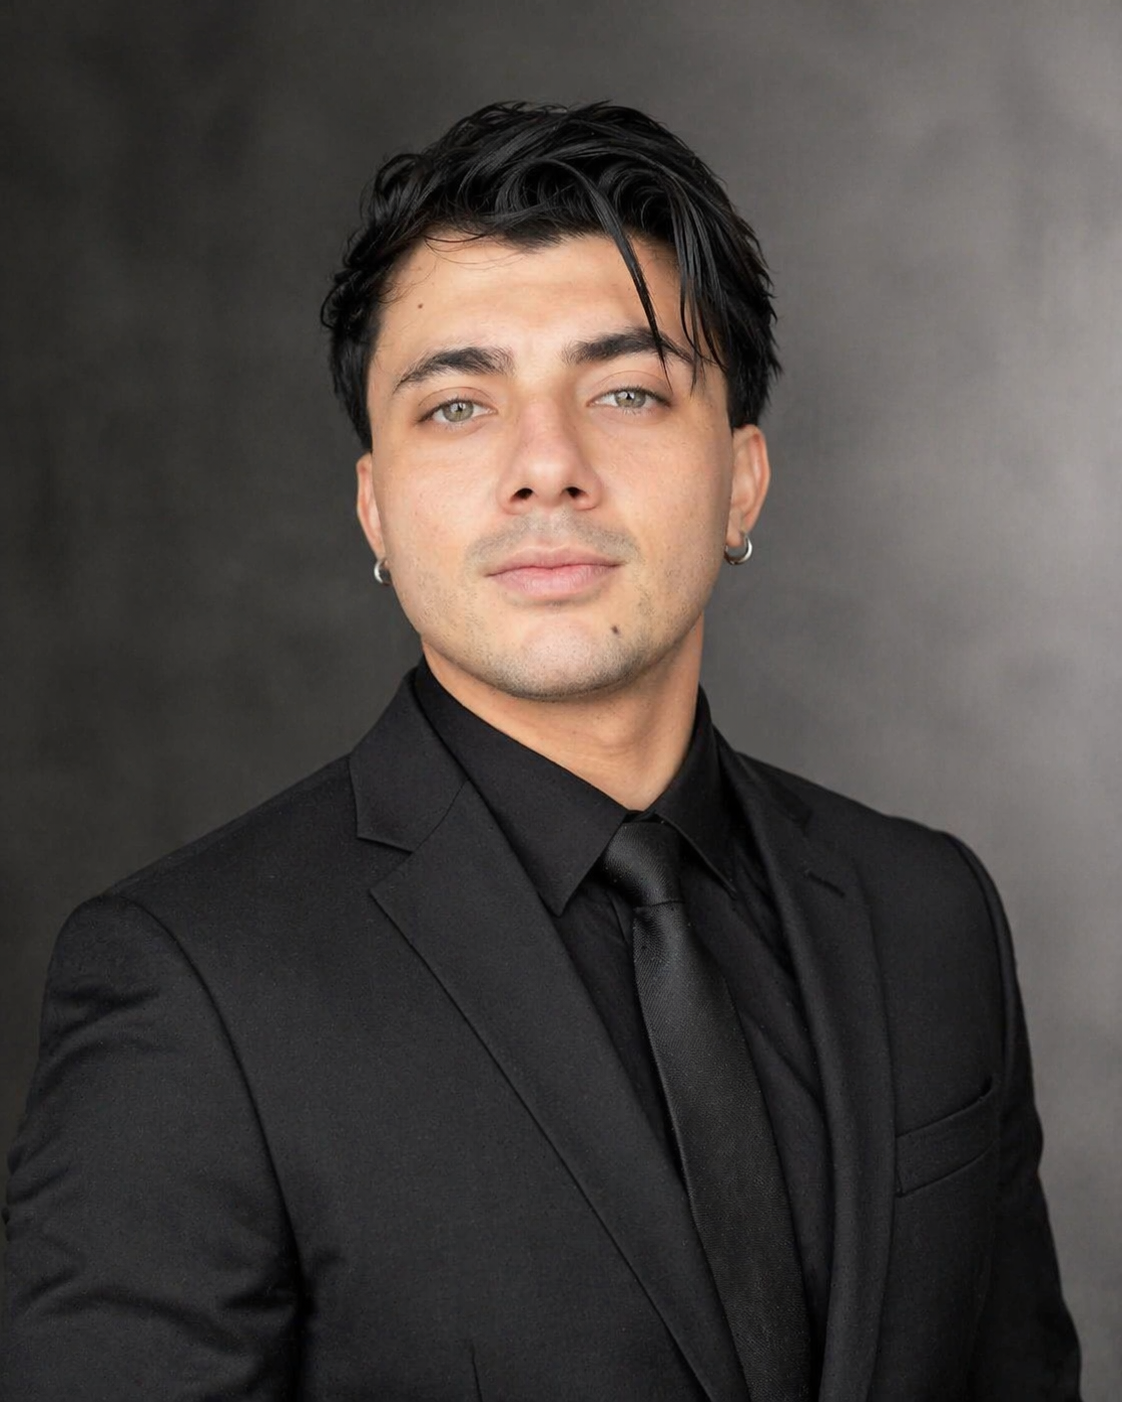
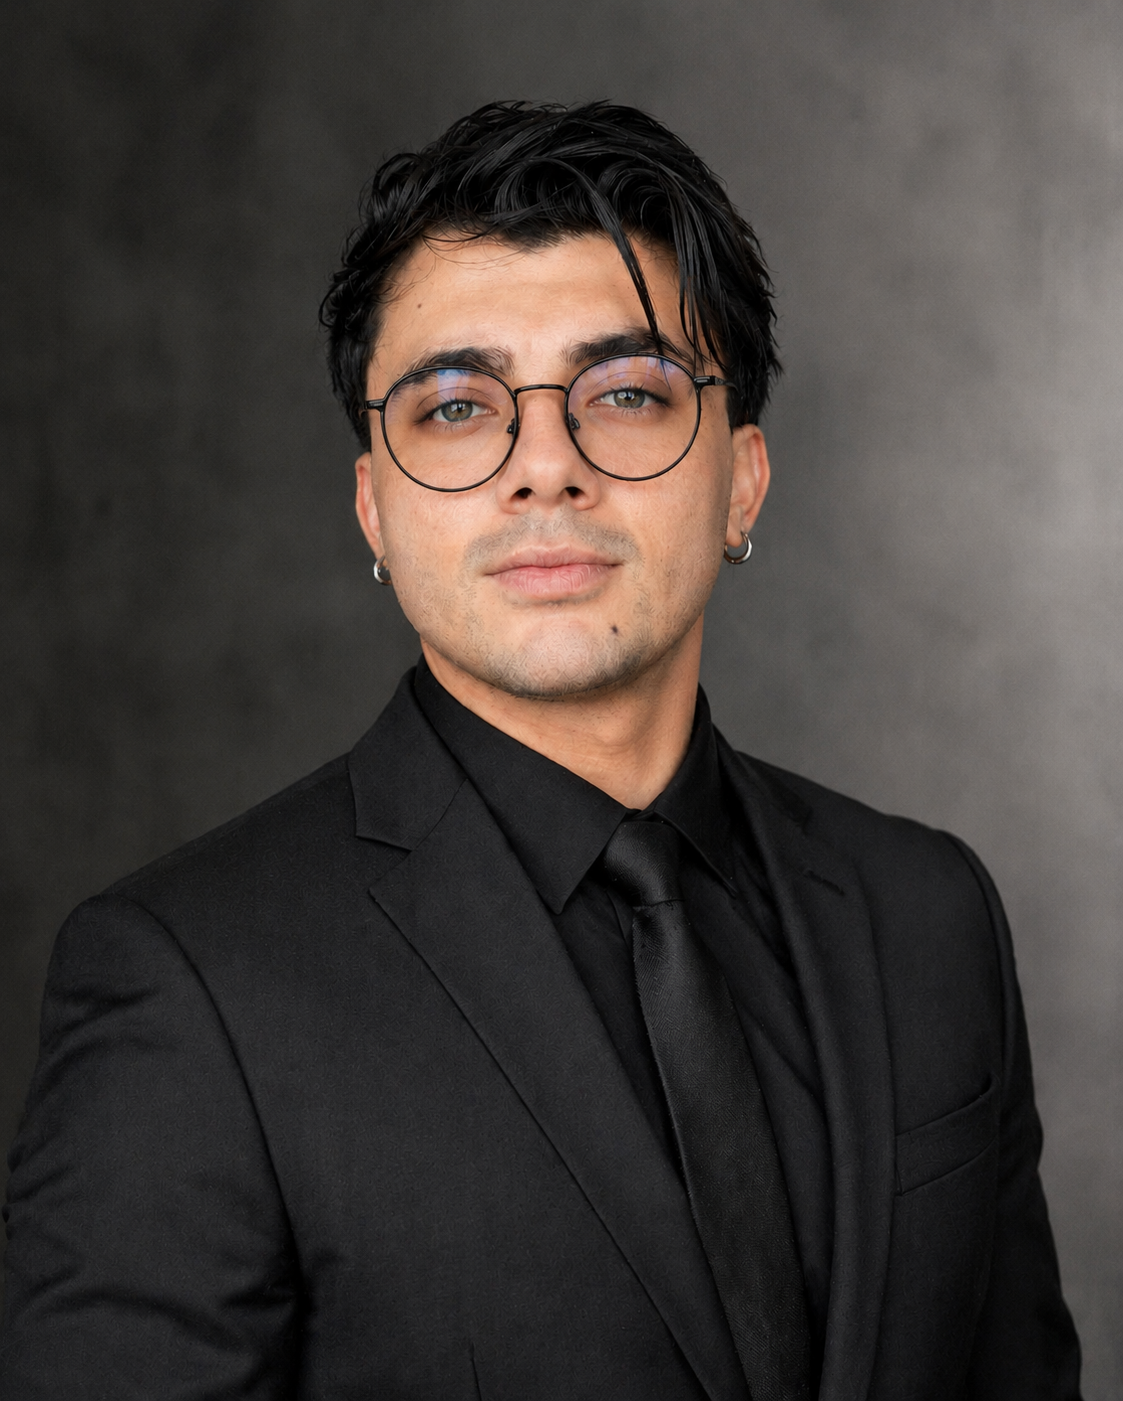
cambiando foto y titulos

diff --git a/index.html b/index.html
@@ -50,7 +50,7 @@
         <p class="hero-eyebrow">Hi, I'm</p>
         <h1>Johnny Chacón Gairaud</h1>
         <p class="hero-role">
-          <span class="typed" data-typed-items="Sr. QA &amp; Software Engineer, Test Automation Specialist, Tech Enthusiast, Problem Solver, Systems Engineer"></span>
+          <span class="typed" data-typed-items="Sr. QA &amp; Software Engineer, Test Automation Specialist, Tech Enthusiast, QA Analyst, Problem Solver, Senior SDET, Systems Engineer"></span>
         </p>
         <p class="hero-summary">
           Automation-driven QA &amp; Software Engineer with 7+ years architecting and scaling test automation